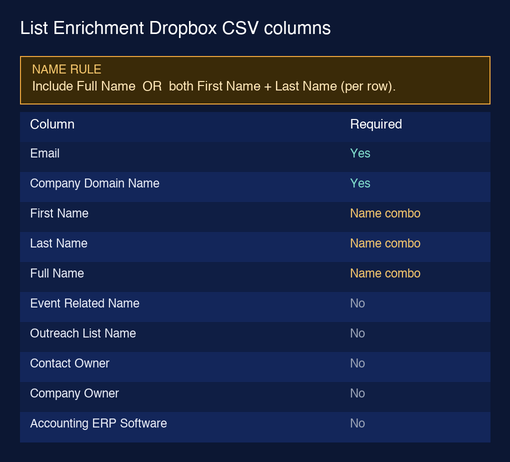
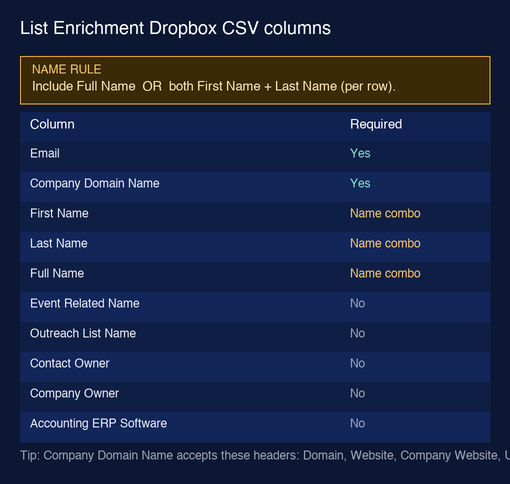
Accept Website / Domain / URL / Site as Company Domain Name header

Changed region(s): [[0.0294, 0.0303, 1.0, 0.9697]]

diff --git a/scripts/generate_format_image.py b/scripts/generate_format_image.py
@@ -39,8 +39,9 @@ def main() -> None:
     pad = 20
     title_h = 36
     callout_h = 56
+    footnote_h_pad = 22
     w = sum(col_w) + pad * 2
-    h = title_h + callout_h + row_h * len(rows) + pad * 2
+    h = title_h + callout_h + row_h * len(rows) + pad * 2 + footnote_h_pad
 
     W, H = w * SCALE, h * SCALE
     img = Image.new("RGB", (W, H), "#0c1733")
@@ -98,6 +99,7 @@ def main() -> None:
     )
 
     y0 = (pad + title_h + callout_h) * SCALE
+    footnote_h = 18
     for ri, (c1, c2) in enumerate(rows):
         y = y0 + ri * row_h * SCALE
         if ri == 0:
@@ -131,6 +133,14 @@ def main() -> None:
             fill=text_color_right,
             font=header_font if ri == 0 else cell_font,
         )
+
+    footnote_y = y0 + len(rows) * row_h * SCALE + 8 * SCALE
+    draw.text(
+        (pad * SCALE, footnote_y),
+        "Tip: Company Domain Name accepts these headers: Domain, Website, Company Website, URL.",
+        fill="#9aa3b6",
+        font=cell_font,
+    )
 
     final = img.resize((w, h), Image.LANCZOS)
     OUT.parent.mkdir(parents=True, exist_ok=True)

diff --git a/config.py b/config.py
@@ -29,11 +29,16 @@ ALL_HEADERS = REQUIRED_HEADERS + NAME_HEADERS + OPTIONAL_HEADERS
 # Normalize common variations to canonical names
 HEADER_ALIASES = {
     "email": "Email",
+    "email address": "Email",
     "company domain": "Company Domain Name",
     "company domain name": "Company Domain Name",
     "domain": "Company Domain Name",
-    "company_domain": "Company Domain Name",
-    "company_domain_name": "Company Domain Name",
+    "domain name": "Company Domain Name",
+    "website": "Company Domain Name",
+    "company website": "Company Domain Name",
+    "company url": "Company Domain Name",
+    "url": "Company Domain Name",
+    "site": "Company Domain Name",
     "first name": "First Name",
     "first_name": "First Name",
     "firstname": "First Name",

diff --git a/app.py b/app.py
@@ -184,6 +184,10 @@ def render_format_section():
     chips_optional = "".join(f'<span class="chip chip-opt">{h}</span>' for h in OPTIONAL_HEADERS)
     st.markdown("**Required columns**", unsafe_allow_html=True)
     st.markdown(chips_required, unsafe_allow_html=True)
+    st.caption(
+        "`Company Domain Name` also accepts these headers: "
+        "**Domain**, **Website**, **Company Website**, **URL**."
+    )
     st.markdown(
         "**Name columns** — include either **Full Name** OR both "
         "**First Name** and **Last Name** per row",